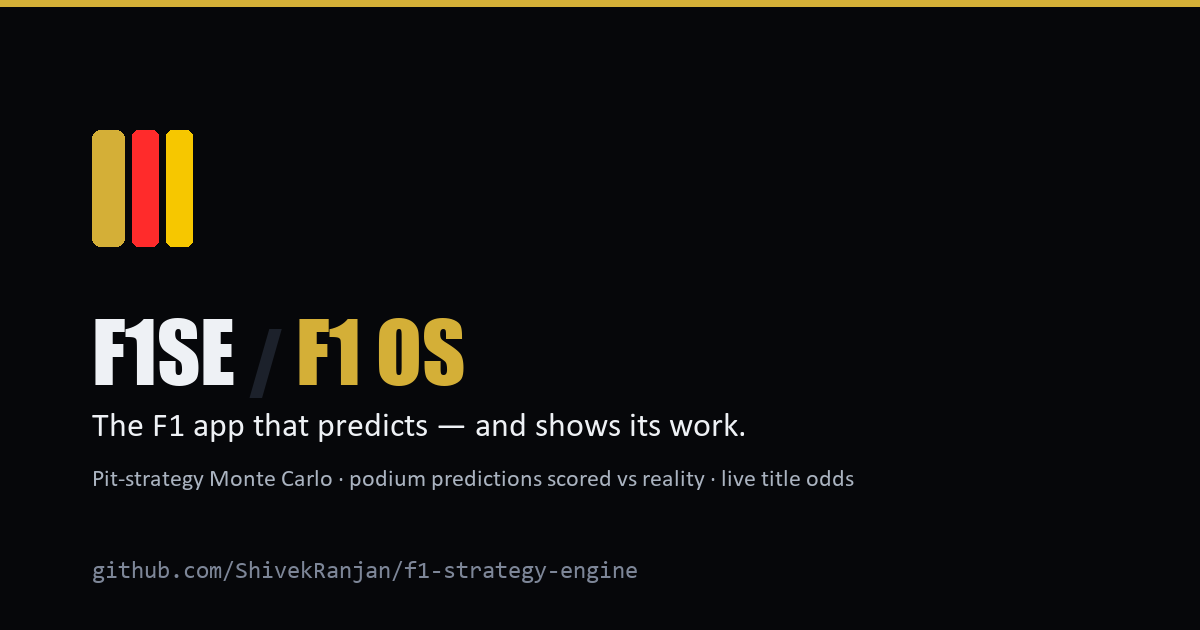
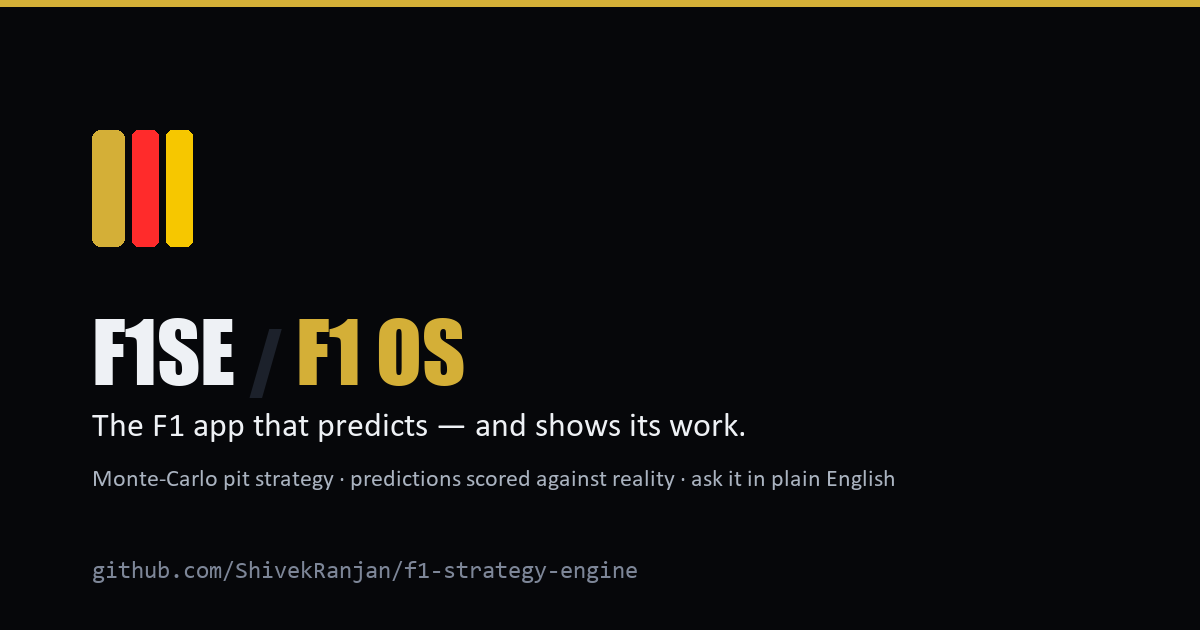
Refresh the OG card — the tagline predated the thing worth mentioning
The social preview on GitHub is still the pre-rebrand cyan card, because that
image lives in repo Settings rather than in git and so was never touched when
the app went gold. The committed frontend/public/og.png has been gold since
July; only the uploaded copy is stale.

While regenerating, fixed the line that was actually out of date. It read
"Pit-strategy Monte Carlo · podium predictions scored vs reality · live title
odds" — three things, one of which (title odds) is the least interesting, and
none of which is the plain-English layer. Now:

    Monte-Carlo pit strategy · predictions scored against reality ·
    ask it in plain English

Three claims, each checkable, and the last is the one a reader cannot guess
from "F1 dashboard".

Same file also serves the site's own og:image, so the card is consistent
wherever the link is pasted.

Changed region(s): [[0.0617, 0.754, 0.74, 0.7841]]

diff --git a/scripts/gen_og_image.py b/scripts/gen_og_image.py
@@ -49,9 +49,13 @@ y2 = y + 110
 d.text((bx, y2), "The F1 app that predicts — and shows its work.", font=sub, fill=INK)
 
 y3 = y2 + 58
+# Three claims, chosen because each is checkable and none is a feature list:
+# the simulation, the fact that predictions are scored against what happened,
+# and the plain-English layer — the one thing a reader cannot guess from
+# "F1 dashboard".
 d.text(
     (bx, y3),
-    "Pit-strategy Monte Carlo · podium predictions scored vs reality · live title odds",
+    "Monte-Carlo pit strategy · predictions scored against reality · ask it in plain English",
     font=small, fill=INK_MUTED,
 )
 
